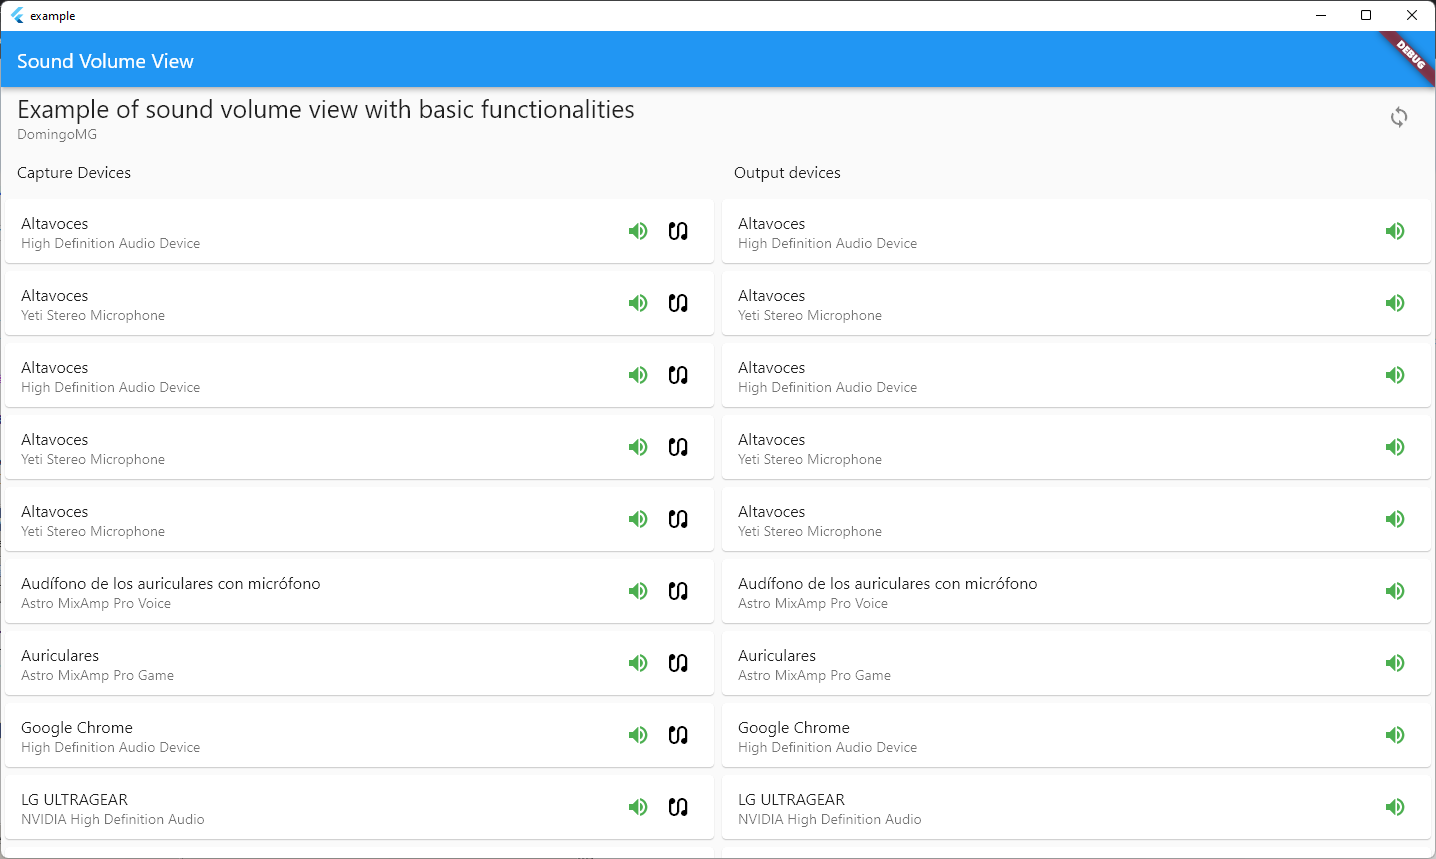
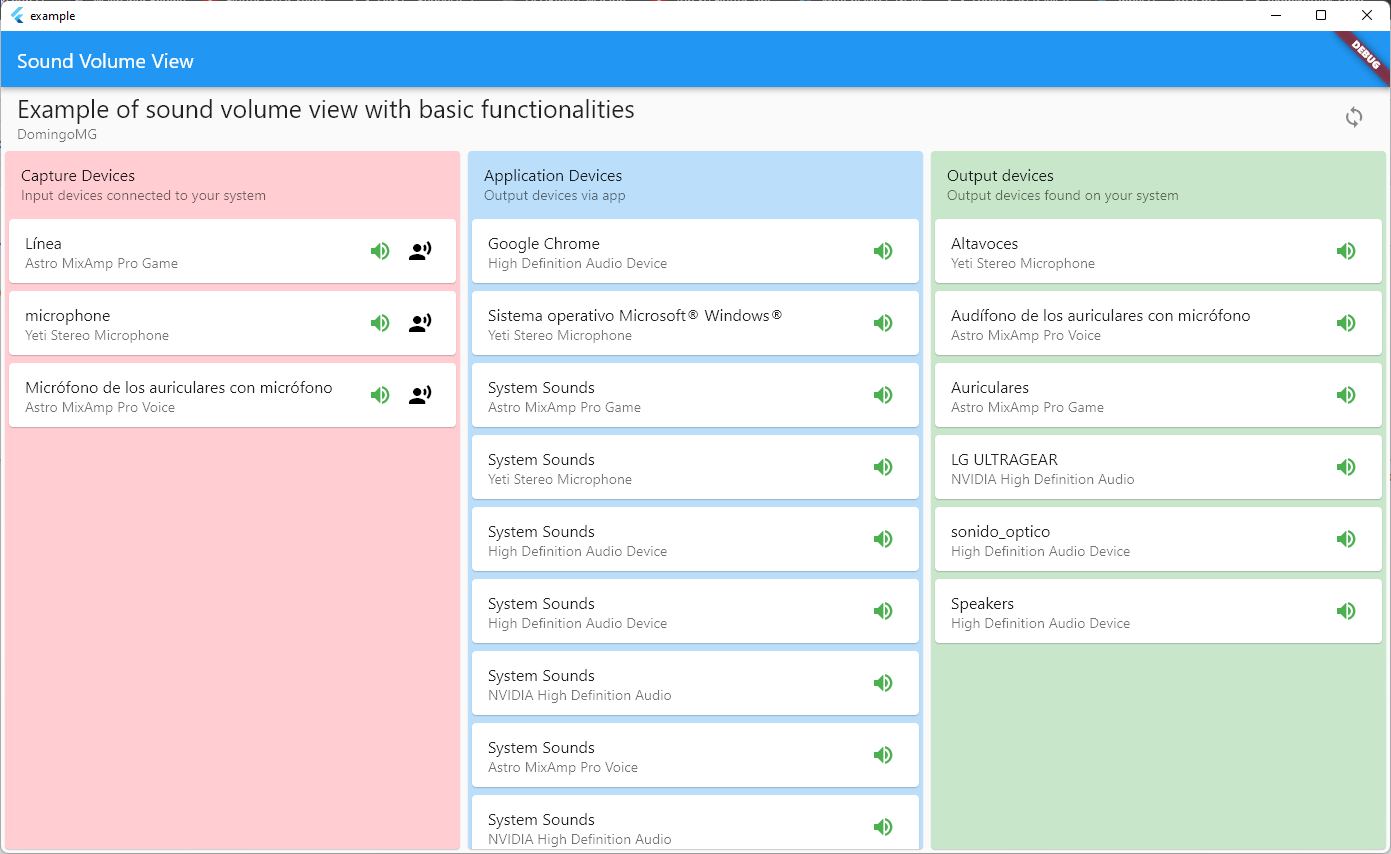
Last Changes

diff --git a/lib/src/core/initial.dart b/lib/src/core/initial.dart
@@ -12,60 +12,94 @@ import 'package:sound_volume_view/src/models/device.dart';
 /// All rights reserved.
 /// Use of this source code is governed by MIT license that can be found in the LICENSE file.
 /// 
+
+// DOCUMENTATION HERE: https://www.nirsoft.net/utils/sound_volume_view.html#command_line
 class SoundVolumeView {
 
   SoundVolumeView({ required this.softwarePath });
   
-  String? softwarePath;
+  /// [softwarePath] Absolute path of where SoundVolumeView.exe is located
+  String softwarePath;
+
+  /// [_softwareName] Name of the application to run
   final String _softwareName = 'SoundVolumeView.exe';
+
+  /// [captureDevices] You only get the capture devices
+  List<Device> captureDevices = <Device>[];
+  
+  /// [outputDevices] You only get the output devices
+  List<Device> outputDevices = <Device>[];
+  
+  /// [applicationDevices] 
+  List<Device> applicationDevices = <Device>[];
+
+  /// [getDevices] getDevices gets all input, output, and application devices
   Future<List<Device>> get getDevices async => _getDevices();
 
-
-  // DOCUMENTATION HERE: https://www.nirsoft.net/utils/sound_volume_view.html#command_line
+  
+  /// Method private => [_getDevices] gets all input, ouput, and application devices operations.
   // /SaveFileEncoding 3 = UTF-8
   Future<List<Device>> _getDevices() async {
     String filenameToGenerate = 'devices.json';
-    String path = join(softwarePath!, _softwareName);
-    String devicesPath = join(softwarePath!, filenameToGenerate);
+    String path = join(softwarePath, _softwareName);
+    String devicesPath = join(softwarePath, filenameToGenerate);
     File file = File(devicesPath);
+    captureDevices.clear();
+    outputDevices.clear();
+    applicationDevices.clear();
     if( await file.exists() ) {
       await file.delete(); 
     }
-    String pathSave = join(softwarePath!, filenameToGenerate);
+    String pathSave = join(softwarePath, filenameToGenerate);
     final Shell shell = Shell();
     await shell.run('$path /SaveFileEncoding 3 /sjson $pathSave');
     
     if( await file.exists() ){
       final dataString = await file.readAsString(encoding:utf8);    
       final dataJson = jsonDecode(dataString);
-      return (dataJson as List).map(( deviceJson ) => Device.fromJson(deviceJson)).toList();
+      List<Device> devices = (dataJson as List).map(( deviceJson ) {
+        Device device = Device.fromJson(deviceJson);
+        if( device.direction == 'Capture' && device.type == 'Device' ){
+          captureDevices.add(device);
+        } else if( device.direction == 'Render' && device.type == 'Device' ){
+          outputDevices.add(device);
+        } else if( device.type == 'Application') {
+          applicationDevices.add(device);
+        }
+        return device;
+      }).toList();
+      return devices;
     } else {
       return [];
     }
   }
   
-  /// [GetMute] 
-  /// Returns the current Mute status. (1 = Muted, 0 = Not Muted)
-  Future<int> _getMute () async {
-    return await Future.delayed(Duration.zero);
-  }
-
+  /// [mute] mute the device
   Future<void> mute ( Device device ) async {
-    String path = join(softwarePath!, _softwareName);
+    String path = join(softwarePath, _softwareName);
     final Shell shell = Shell();
     device.muted = 'Yes';
     await shell.run('$path /mute ${device.name}');
   }
 
+  /// [unMute] Turn on device sound
   Future<void> unMute ( Device device ) async {
-    String path = join(softwarePath!, _softwareName);
+    String path = join(softwarePath, _softwareName);
     final Shell shell = Shell();
     device.muted = 'No';
     await shell.run('$path /UnMute ${device.name}');
   }
 
-  Future<void> setListenToThisDevice ( Device device, {bool listen = true} ) async {
-    String path = join(softwarePath!, _softwareName);
+  /// [setPlaybackThroughDevice] Assigns the output device to the recording line signal
+  Future<void> setPlaybackThroughDevice( Device recordingDevice, Device playbackDevice ) async {
+    String path = join(softwarePath, _softwareName);
+    final Shell shell = Shell();
+    await shell.run('$path /SetPlaybackThroughDevice  ${recordingDevice.name} ${playbackDevice.itemID}');
+  }
+
+  /// [setListenToThisDevice] Enable or disable recording line preview
+  Future<void> setListenToThisDevice ( Device device, {bool listen = true}) async {
+    String path = join(softwarePath, _softwareName);
     final Shell shell = Shell();
     await shell.run('$path /SetListenToThisDevice ${device.name} ${listen ? 1 : 0}');
   }

diff --git a/lib/src/models/device.dart b/lib/src/models/device.dart
@@ -22,6 +22,7 @@ class Device {
 	String? processID;
 	String? windowTitle;
 	String? registryKey;
+  bool listen = true;
 
 	Device({
     this.name, 
@@ -73,6 +74,7 @@ class Device {
 		processID = json['Process ID'];
 		windowTitle = json['Window Title'];
 		registryKey = json['Registry Key'];
+    listen = true;
 	}
 
 	Map<String, dynamic> toJson() {
